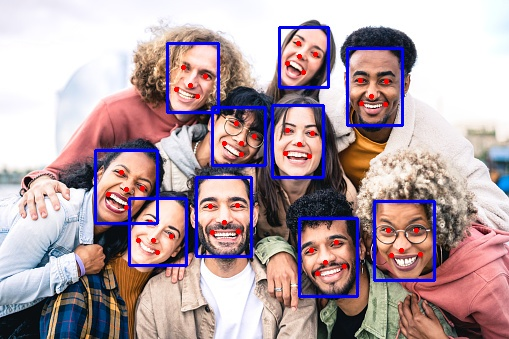
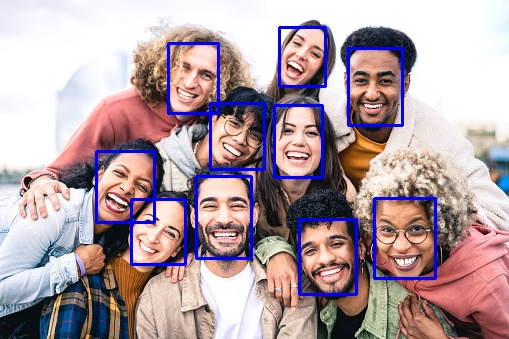
results yaw, pitch, roll, rotation

diff --git a/code-edit-insightFace/infer-video.py b/code-edit-insightFace/infer-video.py
@@ -198,7 +198,7 @@ class SCRFD:
         # print("pre_det: ", pre_det)
 
         keep = self.nms(pre_det)
-        print("keep: ", keep)
+        # print("keep: ", keep)
 
         det = pre_det[keep, :]
         if self.use_kps:
@@ -232,13 +232,23 @@ class SCRFD:
         bboxes_list = []
         kpss_list = []
         input_size = tuple(img.shape[0:2][::-1])
-        blob = cv2.dnn.blobFromImage(img, 1.0/128, input_size, (127.5, 127.5, 127.5), swapRB=True)
+        # print("input_size: ", input_size)
+
+        
+        blob = cv2.dnn.blobFromImage(img, 1.0/128, input_size, (127.5, 127.5, 127.5), swapRB=True) #preprocessing images va chuan bi du lieu cho phan loai trong model pretrained
+                                                                                            # Mean subtraction, SCALing, channel swapping
+        # print("blob: ", blob)
+
         net_outs = self.session.run(self.output_names, {self.input_name : blob})
+        # print("net_outs: ", net_outs)
 
         input_height = blob.shape[2]
         input_width = blob.shape[3]
+        # print("input_height: ", input_height)
+        # print("input_width: ", input_width)
         fmc = self.fmc
         for idx, stride in enumerate(self._feat_stride_fpn):
+            # print("idx, stride", idx, stride)
             # If model support batch dim, take first output
             if self.batched:
                 scores = net_outs[idx][0]
@@ -333,10 +343,10 @@ def main():
     #detector = SCRFD(model_file='./det.onnx')
     # detector = SCRFD(model_file='/home/maicg/Documents/python-image-processing/insight-face/onnx/scrfd_500m.onnx')
     # detector = SCRFD(model_file='/home/maicg/Documents/python-image-processing/insight-face/onnx/scrfd_34g.onnx')
-    detector = SCRFD(model_file='E:\python-image-processing\code-edit-insightFace\onnx\scrfd_2.5g.onnx')
+    detector = SCRFD(model_file='/home/maicg/Documents/python-image-processing/code-edit-insightFace/onnx/scrfd_10g.onnx')
     detector.prepare(-1)
     # img_paths = ['/home/maicg/Documents/python-image-processing/insight-face/tests/data/t4.jpg']
-    cap = cv2.VideoCapture('E:\python-image-processing\people_check.mp4')
+    cap = cv2.VideoCapture('/home/maicg/Documents/python-image-processing/people_check.mp4')
     while True:
         result, img = cap.read()
         # img = cv2.cvtColor(img, cv2.COLOR_BGR2RGB)
@@ -347,27 +357,27 @@ def main():
             bboxes, kpss = detector.detect(img, 0.5, input_size = (640, 640)) #max_num=1 thi ko phat hien chinh xac
             # bboxes, kpss = detector.detect(img, 0.5, input_size = (640, 640), max_num=1)
             # bboxes, kpss = detector.detect(img, 0.5)
-        #     tb = datetime.datetime.now()
-        # #     print('all cost:', (tb-ta).total_seconds()*1000)
-        # # print(img_path, bboxes.shape)
-        # if kpss is not None:
-        #     print(kpss.shape)
-        # for i in range(bboxes.shape[0]):
-        #     bbox = bboxes[i]
-        #     x1,y1,x2,y2,score = bbox.astype(np.int)
-        #     cv2.rectangle(img, (x1,y1)  , (x2,y2) , (255,0,0) , 2)
-        #     if kpss is not None:
-        #         kps = kpss[i]
-        #         for kp in kps:
-        #             kp = kp.astype(np.int)
-        #             cv2.circle(img, tuple(kp) , 1, (0,0,255) , 2)
-        # # filename = img_path.split('/')[-1]
-        # # print('output:', filename)
-        # # cv2.imwrite('./outputs/%s'%filename, img)
-        # # img = cv2.cvtColor(img, cv2.COLOR_RGB2BGR)
-        # cv2.imshow("image", img)
-        # if cv2.waitKey(1) == ord('q'):
-        #     break
-        # print('Doneeeee')
+            tb = datetime.datetime.now()
+        #     print('all cost:', (tb-ta).total_seconds()*1000)
+        # print(img_path, bboxes.shape)
+        if kpss is not None:
+            print(kpss.shape)
+        for i in range(bboxes.shape[0]):
+            bbox = bboxes[i]
+            x1,y1,x2,y2,score = bbox.astype(np.int)
+            cv2.rectangle(img, (x1,y1)  , (x2,y2) , (255,0,0) , 2)
+            if kpss is not None:
+                kps = kpss[i]
+                for kp in kps:
+                    kp = kp.astype(np.int)
+                    cv2.circle(img, tuple(kp) , 1, (0,0,255) , 2)
+        # filename = img_path.split('/')[-1]
+        # print('output:', filename)
+        # cv2.imwrite('./outputs/%s'%filename, img)
+        # img = cv2.cvtColor(img, cv2.COLOR_RGB2BGR)
+        cv2.imshow("image", img)
+        if cv2.waitKey(1) == ord('q'):
+            break
+        print('Doneeeee')
 
 main()

diff --git a/code-edit-insightFace/new-mediapipe.py b/code-edit-insightFace/new-mediapipe.py
@@ -10,7 +10,7 @@ def x_element(elem):
 def y_element(elem):
     return elem[1]
 
-cap = cv2.VideoCapture(0)
+cap = cv2.VideoCapture('/home/maicg/Documents/python-image-processing/pexels-cristian-rojas-7535485.mp4')
 pTime = 0
 faceXY = []
 mpDraw = mp.solutions.drawing_utils
@@ -145,8 +145,10 @@ def compute_euler(img, l_eye, r_eye):
 t = 0
 while True:
     success, img = cap.read()
-    imgRGB = cv2.cvtColor(img, cv2.COLOR_BGR2RGB)
-    results = faceMesh.process(imgRGB)
+    # imgRGB = cv2.cvtColor(img, cv2.COLOR_BGR2RGB)
+    # imgRGB = cv2.resize(imgRGB, (640,640))
+    # img = cv2.resize(img, (640,640))
+    results = faceMesh.process(img)
     if results.multi_face_landmarks:                                            # if faces found
         dist=[]
         for faceNum, faceLms in enumerate(results.multi_face_landmarks):                            # loop through all matches
@@ -158,7 +160,7 @@ while True:
                 # print(lm)
                 faceXY.append((x, y))                                           # put all xy points in neat array
 
-            imgpts, modelpts, rotate_degree, image_points, nose, l_eye, r_eye = face_orientation(imgRGB, faceXY)
+            imgpts, modelpts, rotate_degree, image_points, nose, l_eye, r_eye = face_orientation(img, faceXY)
 
             for i in image_points:
                 cv2.circle(img,(int(i[0]),int(i[1])),4,(255,0,0),-1)
@@ -192,21 +194,21 @@ while True:
         k=0
         for j in range(len(rotate_degree)):
             cv2.putText(img, (lt[j] + '  ''{:05.2f}' ).format(float(rotate_degree[j])), (10, 30 + (50 * j)), cv2.FONT_HERSHEY_SIMPLEX, 1, (0, 255, 0), thickness=2, lineType=2)
-            if -5 <= float(rotate_degree[j]) <= 5:
+            if -20 <= float(rotate_degree[j]) <= 20:
                 k += 1
 
             if k == 3:
                 print('true')
                 rotate_img = compute_euler(img, l_eye, r_eye)
-                cv2.imwrite('./outputs/test4/frame%s.jpg'%str(k), rotate_img)
+                cv2.imwrite('./demo/t3/frame%s.jpg'%str(t), rotate_img)
                 # cv2.imwrite('./outputs/test4/frame%s.jpg'%str(k+1), crop_img)
                 plt.imshow(rotate_img[:,:,::-1])
                 plt.show()
-                # print('============================kkkkk',k)
-                k=k+2
-                cv2.imwrite('./outputs/frame%s.jpg'%str(t), img)  
+                # cv2.imwrite('./outputs/frame%s.jpg'%str(t), img)  
+                # cv2.imwrite('./outputs/test1/frame%s.jpg'%str(t), img)  
 
     t +=1
 
-    cv2.imshow("Image", img)
+    cv2.imshow("Image", cv2.resize(img,(1028,1028)))
+    # cv2.imshow("Image", img)
     cv2.waitKey(1)

diff --git a/code-edit-insightFace/infer-video-kps.py b/code-edit-insightFace/infer-video-kps.py
@@ -23,7 +23,7 @@ def softmax(z):
     div = div[:, np.newaxis] # dito
     return e_x / div
 
-def distance2bbox(points, distance, max_shape=None):
+def distance2bbox(points, distance, max_shape=None): #tra ve hop gioi han
     """Decode distance prediction to bounding box.
 
     Args:
@@ -39,14 +39,22 @@ def distance2bbox(points, distance, max_shape=None):
     y1 = points[:, 1] - distance[:, 1]
     x2 = points[:, 0] + distance[:, 2]
     y2 = points[:, 1] + distance[:, 3]
-    if max_shape is not None:
-        x1 = x1.clamp(min=0, max=max_shape[1])
-        y1 = y1.clamp(min=0, max=max_shape[0])
-        x2 = x2.clamp(min=0, max=max_shape[1])
-        y2 = y2.clamp(min=0, max=max_shape[0])
+    # print("x1, y1, x2, y2", x1, y1, x2, y2)
+    # if max_shape is not None:
+    #     x1 = x1.clamp(min=0, max=max_shape[1])
+    #     print("====================x1", x1)
+    #     y1 = y1.clamp(min=0, max=max_shape[0])
+    #     print("====================y1", y1)
+
+    #     x2 = x2.clamp(min=0, max=max_shape[1])
+    #     print("====================x2", x2)
+
+    #     y2 = y2.clamp(min=0, max=max_shape[0])
+    #     print("====================y2", y2)
+
     return np.stack([x1, y1, x2, y2], axis=-1)
 
-def distance2kps(points, distance, max_shape=None):
+def distance2kps(points, distance, max_shape=None): #tra ve toa do diem tren mat
     """Decode distance prediction to bounding box.
 
     Args:
@@ -84,7 +92,7 @@ class SCRFD:
         self.nms_thresh = 0.4
         self._init_vars()
 
-    def _init_vars(self):
+    def _init_vars(self): #cai dat tham so dua vao mang hien thi tren neutron
         input_cfg = self.session.get_inputs()[0]
         input_shape = input_cfg.shape
         if isinstance(input_shape[2], str):
@@ -121,7 +129,7 @@ class SCRFD:
             self._num_anchors = 1
             self.use_kps = True
 
-    def prepare(self, ctx_id, **kwargs):
+    def prepare(self, ctx_id, **kwargs): #chi can dong self.session.set_providers(['CPUExecutionProvider'])
         if ctx_id<0:
             self.session.set_providers(['CPUExecutionProvider'])
         nms_thresh = kwargs.get('nms_thresh', None)
@@ -316,7 +324,7 @@ def main():
     while True:
         result, img = cap.read()
         # img = cv2.cvtColor(img, cv2.COLOR_BGR2RGB)
-        img = cv2.resize(img, (640,640))
+        # img = cv2.resize(img, (640,640))
 
         for _ in range(1):
             ta = datetime.datetime.now()

diff --git a/code-edit-insightFace/infer-img-kps.py b/code-edit-insightFace/infer-img-kps.py
@@ -13,15 +13,7 @@ import os
 import os.path as osp
 import cv2
 import sys
-
-def softmax(z):
-    assert len(z.shape) == 2
-    s = np.max(z, axis=1)
-    s = s[:, np.newaxis] # necessary step to do broadcasting
-    e_x = np.exp(z - s)
-    div = np.sum(e_x, axis=1)
-    div = div[:, np.newaxis] # dito
-    return e_x / div
+import matplotlib.pyplot as plt
 
 def distance2bbox(points, distance, max_shape=None):
     """Decode distance prediction to bounding box.
@@ -307,9 +299,9 @@ def scrfd_2p5gkps(**kwargs):
 if __name__ == '__main__':
     import glob
     #detector = SCRFD(model_file='./det.onnx')
-    detector = SCRFD(model_file='/home/maicg/Documents/python-image-processing/code-edit-insightFace/onnx/scrfd_2.5g_bnkps.onnx')
+    detector = SCRFD(model_file='./onnx/scrfd_2.5g_bnkps.onnx')
     detector.prepare(-1)
-    img_paths = ['/home/maicg/Documents/python-image-processing/people.jpg']
+    img_paths = ['/home/maicg/Documents/python-image-processing/person.jpg']
     for img_path in img_paths:
         img = cv2.imread(img_path)
 
@@ -326,13 +318,17 @@ if __name__ == '__main__':
             bbox = bboxes[i]
             x1,y1,x2,y2,score = bbox.astype(np.int)
             cv2.rectangle(img, (x1,y1)  , (x2,y2) , (255,0,0) , 2)
+            crop_img = img[y1:y2, x1:x2]
             if kpss is not None:
                 kps = kpss[i]
                 for kp in kps:
                     kp = kp.astype(np.int)
                     cv2.circle(img, tuple(kp) , 1, (0,0,255) , 2)
         filename = img_path.split('/')[-1]
-        print('output:', filename)
-        cv2.imwrite('./outputs/%s'%filename, img)
-        print('Doneeeee')
+        # print('output:', filename)
+        # cv2.imwrite('./outputs/%s'%filename, img)
+        # print('Doneeeee')
+        crop_img = cv2.cvtColor(crop_img, cv2.COLOR_BGR2RGB )
+        plt.imshow(crop_img)
+        plt.show()
 

diff --git a/code-edit-insightFace/infer-image.py b/code-edit-insightFace/infer-image.py
@@ -259,9 +259,9 @@ class SCRFD:
 def main():
     import glob
     #detector = SCRFD(model_file='./det.onnx')
-    detector = SCRFD(model_file='/home/maicg/Documents/python-image-processing/insight-face/onnx/scrfd_500m.onnx')
+    detector = SCRFD(model_file='/home/maicg/Documents/python-image-processing/code-edit-insightFace/onnx/scrfd_2.5g_bnkps.onnx')
     detector.prepare(-1)
-    img_paths = ['/home/maicg/Documents/python-image-processing/insight-face/tests/data/t4.jpg']
+    img_paths = ['/home/maicg/Documents/python-image-processing/person.jpg']
     for img_path in img_paths:
         img = cv2.imread(img_path)
 
@@ -269,6 +269,7 @@ def main():
             ta = datetime.datetime.now()
             bboxes, kpss = detector.detect(img, 0.5, input_size = (640, 640))
             # bboxes, kpss = detector.detect(img, 0.5)
+
             tb = datetime.datetime.now()
             print('all cost:', (tb-ta).total_seconds()*1000)
         print(img_path, bboxes.shape)

diff --git a/insight-face/tools/scrfd_video.py b/insight-face/tools/scrfd_video.py
@@ -6,6 +6,7 @@
 
 from __future__ import division
 import datetime
+import imp
 import numpy as np
 import onnx
 import onnxruntime
@@ -13,6 +14,7 @@ import os
 import os.path as osp
 import cv2
 import sys
+import time
 
 def softmax(z):
     assert len(z.shape) == 2
@@ -303,7 +305,7 @@ def get_scrfd(name, download=False, root='~/.insightface/models', **kwargs):
 def scrfd_2p5gkps(**kwargs):
     return get_scrfd("2p5gkps", download=True, **kwargs)
 
-
+start_time = time.time()
 if __name__ == '__main__':
     import glob
     #detector = SCRFD(model_file='./det.onnx')
@@ -340,7 +342,9 @@ if __name__ == '__main__':
         # print('output:', filename)
         # cv2.imwrite('./outputs/%s'%filename, img)
         cv2.imshow("image", img)
+        # print("--- %s seconds ---" % (time.time() - start_time))
         if cv2.waitKey(1) == ord('q'):
             break
         print('Doneeeee')
+    
 

diff --git a/code-edit-insightFace/head-pose.py b/code-edit-insightFace/head-pose.py
@@ -419,9 +419,9 @@ def main():
                 distance12, distance_nose1, distance_nose2, l_eye, r_eye = xyz_coordinates(kps)
                 if distance12 > distance_nose1 and distance12 > distance_nose2:
                     if abs(distance_nose1-distance_nose2) <= 0.5:
-                        rotate_img = compute_euler(crop_img, l_eye, r_eye)
+                        rotate_img = compute_euler(img, l_eye, r_eye)
                         cv2.imwrite('./outputs/test4/frame%s.jpg'%str(k), rotate_img)
-                        cv2.imwrite('./outputs/test4/frame%s.jpg'%str(k+1), crop_img)
+                        cv2.imwrite('./outputs/test4/frame%s.jpg'%str(k+1), img)
                         plt.imshow(rotate_img[:,:,::-1])
                         plt.show()
                         # print('============================kkkkk',k)

diff --git a/Face-detection/MTCNN/video.py b/Face-detection/MTCNN/video.py
@@ -7,7 +7,7 @@ import time
 
 os.chdir('/home/devai01/Me/python-image-processing/')
 # os.chdir('/home/devai01/Me/')
-cap = video = cv2.VideoCapture('people_check.mp4')
+cap = cv2.VideoCapture('people_check.mp4')
 detector = MTCNN()
 
 
